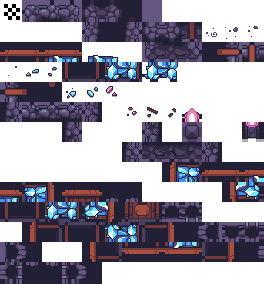
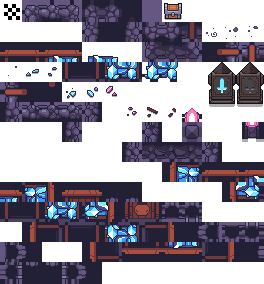
[ADD] error handeling in .rpg files

Changed region(s): [[0.7879, 0.2254, 1.0, 0.3944], [0.6061, 0.0, 0.697, 0.0845]]

diff --git a/src/room/room_reader.c b/src/room/room_reader.c
@@ -33,7 +33,11 @@ static room_t *init_room(room_t *room, char *buff, FILE *fd, size_t len)
     if ((int)c == -1)
         return (NULL);
     room->height = my_getnbr(buff);
+    if (room->height <= 0)
+        return (NULL);
     room->entity_nb = my_getnbr(&buff[4]);
+    if (room->entity_nb <= 0)
+        return (NULL);
     room->room = malloc(sizeof(char *) * (room->height + 1));
     ASSERT_MALLOC(room->room, NULL);
     return (room);
@@ -44,7 +48,7 @@ static room_t *fill_room_lines(room_t *room, char *buff, FILE *fd, size_t len)
     int y = 0;
     size_t c = 0;
 
-    while ((int)c != -1 && (buff == NULL || buff[0] != '=')) {
+    while ((int)c != -1 && buff != NULL && y < room->height) {
         c = getline(&buff, &len, fd);
         if ((int)c != -1 && buff[0] != '=') {
             room->room[y] = malloc(sizeof(char) * (c + 1));
@@ -57,12 +61,15 @@ static room_t *fill_room_lines(room_t *room, char *buff, FILE *fd, size_t len)
     return (room);
 }
 
-static room_t *open_room(room_t *room, char *path)
+static room_t *open_room(room_t *room, char *path, room_type_t type)
 {
     FILE *fd = NULL;
     size_t len = 100;
     char *buff = NULL;
 
+    room->height = 0;
+    room->type = type;
+    room->entity_nb = 0;
     fd = fopen(path, "r");
     ASSERT_MALLOC(fd, NULL);
     buff = malloc(sizeof(char) * len);
@@ -70,6 +77,7 @@ static room_t *open_room(room_t *room, char *path)
     room = init_room(room, buff, fd, len);
     ASSERT_MALLOC(room, NULL);
     room = fill_room_lines(room, buff, fd, len);
+    ASSERT_MALLOC(room, NULL);
     fclose(fd);
     free(buff);
     return (room);
@@ -78,20 +86,19 @@ static room_t *open_room(room_t *room, char *path)
 room_t *get_room(room_t *room, room_type_t type)
 {
     char *path = NULL;
-    int nb = get_file_nb("assets/rooms/dungeon");
+    int nb = get_file_nb("assets/rooms/caves");
     static int room_nb = 0;
 
     if (nb <= 0) return (NULL);
     srand(time(NULL));
     nb = rand() % nb;
-    path = get_specific_file("assets/rooms/dungeon", nb);
+    path = get_specific_file("assets/rooms/caves", nb);
     ASSERT_MALLOC(path, NULL);
     if (room_nb != 0) free_room(room);
     room = malloc(sizeof(room_t));
-    room->type = type;
-    room->entity_nb = 0;
     ASSERT_MALLOC(room, NULL);
-    room = open_room(room, path);
+    room = open_room(room, path, type);
+    ASSERT_MALLOC(room, NULL);
     ASSERT_MALLOC(room->room, NULL);
     ASSERT_MALLOC(room->collisions, NULL);
     free(path);

diff --git a/include/room.h b/include/room.h
@@ -13,11 +13,11 @@
 #ifndef ROOM_H_
     #define ROOM_H_
     #define TILE_SIZE 60
-    #define TILE_NB 18
+    #define TILE_NB 29
     #define VOID_ID 0
     #define FLOOR_ID 1
     #define VOID_POS ((sfIntRect){2, 2, 20, 20})
-    #define FLOOR_POS ((sfIntRect){142, 0, 20, 20})
+    #define FLOOR_POS ((sfIntRect){142, 2, 20, 20})
     #define WALL_FRONT_POS ((sfIntRect){162, 42, 20, 20})
     #define WALL_BACK_POS ((sfIntRect){42, 2, 20, 20})
     #define WALL_LEFT_POS ((sfIntRect){122, 22, 20, 20})
@@ -34,6 +34,17 @@
     #define LITTLE_CRIS_PI ((sfIntRect){102, 82, 20, 20})
     #define LITTLE_ROCK ((sfIntRect){222, 22, 20, 20})
     #define LITTLE_STICK ((sfIntRect){142, 102, 20, 20})
+    #define CHEST ((sfIntRect){162, 2, 20, 20})
+    #define INTERN_TOP_LEFT ((sfIntRect){22, 2, 20, 20})
+    #define INTERN_TOP_RIGHT ((sfIntRect){62, 2, 20, 20})
+    #define INTERN_BOT_LEFT ((sfIntRect){142, 42, 20, 20})
+    #define INTERN_BOT_RIGHT ((sfIntRect){182, 42, 20, 20})
+    #define ENT_TOP_OP ((sfIntRect){122, 242, 40, 20})
+    #define ENT_BOT_OP ((sfIntRect){62, 222, 40, 20})
+    #define ENT_TOP_CL ((sfIntRect){162, 242, 40, 20})
+    #define ENT_BOT_CL ((sfIntRect){102, 222, 40, 20})
+    #define SAVE_PILLAR ((sfIntRect){208, 62, 28, 45})
+    #define SAVED_PILLAR ((sfIntRect){236, 62, 28, 45})
 
 
 typedef enum room_type_e {

diff --git a/src/room/tiles_image.c b/src/room/tiles_image.c
@@ -14,13 +14,14 @@
 
 static int translate_map(char **map, int y, int x)
 {
-    char *img = ". -_[]lrLRppPP:;,~";
+    char *img = ". -_[]lrLRppPP:;,~c<>{}eeEESs";
     int i = 0;
     int temp = 0;
 
     while (img[i] != '\0') {
-        if ((img[i] == 'p' || img[i] == 'P') && (map[y][x] == 'p' ||
-        map[y][x] == 'P') && (temp = draw_doors(map, x, y, i)) != -1)
+        if ((img[i] == 'p' || img[i] == 'P' || img[i] == 'e' || img[i] == 'E')
+        && (map[y][x] == 'p' || map[y][x] == 'P' || map[y][x] == 'e' ||
+        map[y][x] == 'E') && (temp = draw_doors(map, x, y, i)) != -1)
             return (temp);
         if (map[y][x] == img[i])
             return (i);
@@ -43,7 +44,9 @@ char c)
 static void draw_floor_tile(sfRenderWindow *window, sfSprite *floor, char c)
 {
 
-    if (c == ' ' || c == ';' || c == ':' || c == ',' || c == '~') {
+    if (c != '?' && c != '[' && c != ']' && c != '{' && c != '}' && c != '<'
+    && c != '>' && c != '-' && c != '_' && c != 'r' && c != 'R' && c != 'l' &&
+    c != 'R') {
         sfRenderWindow_drawSprite(window, floor, NULL);
     }
 }

diff --git a/src/room/tiles.c b/src/room/tiles.c
@@ -19,6 +19,10 @@ int draw_doors(char **map, int x, int y, int i)
         return (i + 1);
     if (map[y][x] == 'P' && map[y - 1][x] == 'P')
         return (i + 3);
+    if (map[y][x] == 'e' && map[y + 1][x] == 'e')
+        return (i + 14);
+    if (map[y][x] == 'E' && map[y + 1][x] == 'E')
+        return (i + 16);
     return (-1);
 }
 
@@ -82,7 +86,9 @@ tile_t **init_tile_list(tile_t **tile_list)
     &WALL_FRONT_POS, &WALL_BACK_POS, &WALL_LEFT_POS, &WALL_RIGHT_POS,
     &TOP_LEFT_POS, &TOP_RIGHT_POS, &BOT_LEFT_POS, &BOT_RIGHT_POS,
     &DOOR_TOP_OP, &DOOR_BOT_OP, &DOOR_TOP_CL, &DOOR_BOT_CL, &LITTLE_CRIS_BL,
-    &LITTLE_CRIS_PI, &LITTLE_ROCK, &LITTLE_STICK, NULL};
+    &LITTLE_CRIS_PI, &LITTLE_ROCK, &LITTLE_STICK, &CHEST, &INTERN_TOP_LEFT,
+    &INTERN_TOP_RIGHT, &INTERN_BOT_LEFT, &INTERN_BOT_RIGHT, &ENT_TOP_OP,
+    &ENT_BOT_OP, &ENT_TOP_CL, &ENT_BOT_CL, &SAVE_PILLAR, &SAVED_PILLAR, NULL};
 
     tile_list = malloc(sizeof(tile_t *) * (TILE_NB + 1));
     ASSERT_MALLOC(tile_list, NULL);

diff --git a/src/room/room_folder_reader.c b/src/room/room_folder_reader.c
@@ -37,7 +37,7 @@ static char *create_room_path(char *room, char *path, struct dirent *entry)
 {
     ASSERT_MALLOC(entry, NULL);
     room = malloc(sizeof(char) * (my_strlen(entry->d_name)
-    + my_strlen(path) + 1));
+    + my_strlen(path) + 2));
     ASSERT_MALLOC(room, NULL);
     my_strcpy(room, path);
     my_strcat(room, "/");
@@ -64,7 +64,6 @@ char *get_specific_file(char *path, int nb)
         i++;
         entry = readdir(dir);
     }
-    closedir(dir);
     room = create_room_path(room, path, entry);
     return (room);
 }
